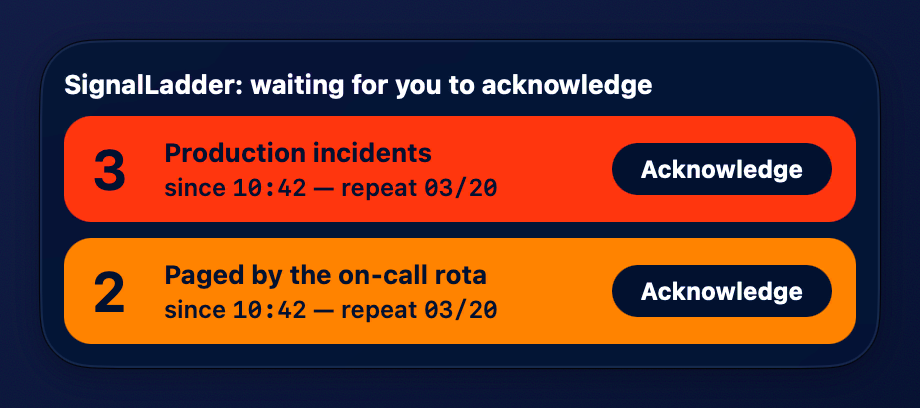
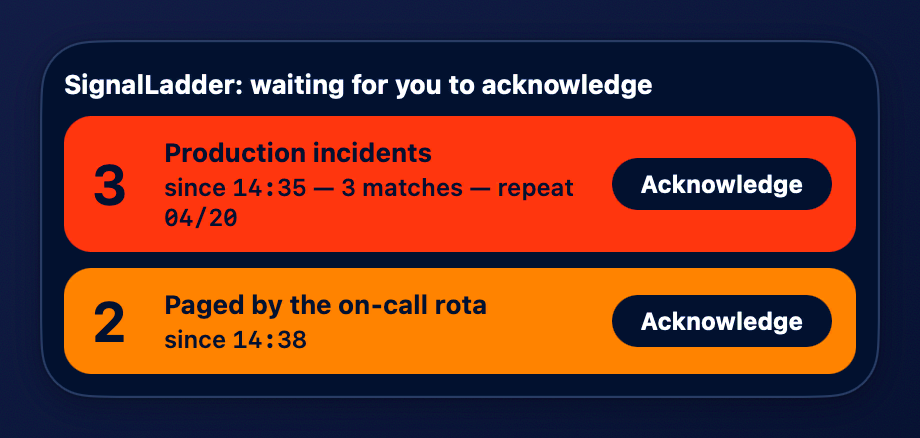
docs: the review's corrections to the pages, and pictures that agree with themselves

diff --git a/README.md b/README.md
@@ -29,7 +29,7 @@
 
 <picture>
   <source media="(prefers-color-scheme: dark)" srcset="docs/assets/hero-dark.png">
-  <img src="docs/assets/hero.png" alt="The SignalLadder rule editor showing a rule for production incidents with its conditions, the notifications it matches and an On call ladder drawn as four tier capsules; the escalation panel listing two alerts, each with its tier and an Acknowledge button; the Inspector listing recent notifications with what each one set off; and, under a menu-bar icon that reads 3 04/20, the popover with the escalating alert, Acknowledge, capture health, on-call mode, the rules in effect and its commands">
+  <img src="docs/assets/hero.png" alt="The SignalLadder rule editor showing a rule for production incidents with its conditions, the notifications it matches and an On call ladder drawn as four tier capsules; the Inspector listing recent notifications with what each one set off; and, under a menu-bar icon that reads 3 04/20, the popover with the escalating alert, Acknowledge, capture health, on-call mode, the rules in effect and its commands">
 </picture>
 
 > [!NOTE]
@@ -99,9 +99,9 @@ flowchart LR
 - While the menu is open it does not change under the pointer: a banner that arrives then shows at once on the panel and the icon, and the menu lists it the next time you open it. The menu's **Acknowledge** acts on the alerts it listed when you opened it. One that began while the menu was open keeps escalating until you acknowledge it, and so does one that a match joined while the menu was open. The hotkey acts on everything listed, including both, and a panel row's button acts on its own escalation. That is tested, and a real menu was held open in a test program. In the app itself, capture was seen running behind a held menu on 2026-10-02, but the menu holding still has not been seen.
 
 **A popover on a click, the menu on a right-click**
-- A click on the menu-bar icon opens a popover, navy whatever the Mac's appearance. While anything is escalating it begins with a block for each alert in its tier's colour, up to three, and one **Acknowledge**. Then come the menu's own lines under the headings _Capture_, _On call and snooze_ and _Rules_, three tiles, **Inspector** (⌘I), **Rules** (⌘E) and **Snooze**, and the commands: **On Call**, **Show On-Call Check…**, **Open Rules File in Text Editor…**, **Reload Rules**, **Settings…** and **Quit SignalLadder**.
+- A click on the menu-bar icon opens a popover, navy whatever the Mac's appearance. While anything is escalating it begins with a block for each alert in its tier's colour, up to three, and one **Acknowledge**. Then come the menu's own lines under the headings _Capture_, _On call and snooze_ when it has lines, _Rules_ and, when Launch at login needs saying, _Settings_, then three tiles, **Inspector** (⌘I), **Rules** (⌘E) and **Snooze**, and the commands: **On Call**, **Show On-Call Check…** while you are on call, **Open Rules File in Text Editor…**, **Reload Rules**, **Settings…** and **Quit SignalLadder**.
 - The menu is still there and is unchanged: right-click the icon, or click it holding Option or Control. What this page says the menu shows, the popover shows too, since it is made from the same lines. The list of apps to mute is in the menu only.
-- While an alert escalates the icon is a capsule in the tier's colour, amber for tier 1, orange for tier 2 and red for tiers 3 and 4, holding the tier's number and the repeats, as _3 04/20_. A warning is not one of those colours: it has a line round it.
+- While an alert escalates the icon is a capsule in the tier's colour, amber for tier 1, orange for tier 2 and red for tiers 3 and 4, holding the tier's number and the repeats, as _3 04/20_. A problem still outranks it: while one stands the icon is the slashed bell and not the capsule. A row whose Shortcut failed, or that the Mac slept through, has no tier's colour on the panel or in the popover: it has a white line round it.
 - On macOS 26 and later the popover and the panel are drawn on glass under a wash of navy. On macOS 14 and 15, and with **Reduce transparency** or **Increase contrast** switched on, they are solid navy.
 - The popover, the capsule and the panel as it is now drawn have been seen in windows drawn by their own code. They have not been opened in the app itself.
 
@@ -203,7 +203,7 @@ flowchart LR
     <td width="58%" valign="top">
       <a href="docs/assets/screenshots/panel.png"><picture>
         <source media="(prefers-color-scheme: dark)" srcset="docs/assets/screenshots/panel-dark.png">
-        <img src="docs/assets/screenshots/panel.png" alt="The escalation panel with two rows, a red one for tier 3 and an orange one for tier 2, each with the rule's name, when it began, its repeats and an Acknowledge button">
+        <img src="docs/assets/screenshots/panel.png" alt="The escalation panel with two rows, a red one for tier 3 with its matches and repeats and an orange one for tier 2, each with the rule's name, when it began and an Acknowledge button">
       </picture></a>
     </td>
     <td width="42%" valign="top">
@@ -215,7 +215,7 @@ flowchart LR
   </tr>
   <tr>
     <td><strong>The panel.</strong> One block for each alert still escalating, in its tier's colour, over every app until you acknowledge it.</td>
-    <td><strong>The popover.</strong> What a click on the icon opens: what is waiting and <strong>Acknowledge</strong> first, then the menu's own lines under headings, three tiles and the commands. Both pictures are drawn by SignalLadder's own code with made-up values, on glass, as on macOS 26 and later; they were not captured from a running copy.</td>
+    <td><strong>The popover.</strong> What a click on the icon opens: what is waiting and <strong>Acknowledge</strong> first, then the menu's own lines under headings, three tiles and the commands. Both pictures are drawn by SignalLadder's own code with made-up values and were not captured from a running copy. The popover is on glass, as on macOS 26 and later, and the panel on the solid ground, as on macOS 14 and 15.</td>
   </tr>
   <tr>
     <td colspan="2">

diff --git a/docs/architecture.md b/docs/architecture.md
@@ -865,7 +865,7 @@ The app does not choose an output device. It plays through the Mac's default out
 | `AlertPanelTests` | 60 | Builds the real `NSPanel` and reads back its level, its behaviour across Spaces, the words its rows draw, each block's colour, number and line, and its buttons, including that a row which stays keeps its button and that at most six rows are shown. Showing and hiding are checked on a panel that records being ordered in and out, so no window is ever put on screen. Two more tests check that the target imports only AppKit and Foundation and declares no dependencies. `PanelPaletteTests` holds the panel's colours to the design's values and to 4.5 to 1 between words and what they sit on, and reads three sources as text: the panel's palette and the app's, to hold each name to the same value in both, and the core's `TierTone`, to hold the panel's copy of its three lines to it. `PanelGroundTests` builds the ground and reads it back: solid navy to begin with, glass under the wash where the Mac has glass and solid where it has not, dark in a light window, what the window shows always over the glass and never in it, and the class named in one file behind both guards. On CI's macOS 15 job, which has no glass, the same tests hold the ground to staying solid |
 | `NotificationCaptureTests` | 4 | `CanaryService` with each post held open until the test lets it go, so a capture and a second self-test can be ordered around it: a self-test passes on its capture, fails on none, and one asked for while another is under way does not run |
 
-The tests use XCTest only, apart from one script. The `Test run with 0 tests` lines at the end of a run are the newer Swift Testing library reporting that there are none. The XCTest lines above them, `Executed N tests`, are the counts to read. On macOS 27.2 with Xcode 27.1 each of the six test bundles reports its own total, one after another, so the counts above are the six lines that come just after each `Test Suite 'All tests' passed`, summed (39, 20, 2552, 4, 47 and 83, which make 2745, with no failure), and counting `func test` in each target (`grep -rhoE 'func test[A-Za-z0-9_]*' Tests/<target> | wc -l`) gives the same numbers. They were taken on 2026-11-07 with `swift build --build-tests` and `swift test --skip-build`, on the code of `main` once the fixes of the November audit were in, when they were 2506, 21 and 2673. Stage 1 of the 1.2 plan added 13 tests to `NotificationCoreTests` and 13 to `AlertPanelTests` on 2026-11-25, Stage 2 ten more to `NotificationCoreTests`, Stage 3 ten more to `NotificationCoreTests` and thirteen to `AlertPanelTests`, and Stage 4 thirteen more to `NotificationCoreTests`, all the same day, counted the same two ways on macOS 27.3 with the speech tests left out of the run, since that Mac's session had no voice to give them. CI's two jobs print what they ran in the step that checks the count (see [Testing](#testing)): on `main` at `615ffd9`, three fixes earlier, both ran 2670 tests, the macOS 26 job skipping 17 for want of the voices and the macOS 15 job none.
+The tests use XCTest only, apart from one script. The `Test run with 0 tests` lines at the end of a run are the newer Swift Testing library reporting that there are none. The XCTest lines above them, `Executed N tests`, are the counts to read. On macOS 27.2 with Xcode 27.1 each of the six test bundles reports its own total, one after another, so the counts above are the six lines that come just after each `Test Suite 'All tests' passed`, summed (39, 20, 2637, 4, 60 and 83, which make 2843, with no failure), and counting `func test` in each target (`grep -rhoE 'func test[A-Za-z0-9_]*' Tests/<target> | wc -l`) gives the same numbers. They were taken on 2026-11-07 with `swift build --build-tests` and `swift test --skip-build`, on the code of `main` once the fixes of the November audit were in, when they were 2506, 21 and 2673. Stage 1 of the 1.2 plan added 13 tests to `NotificationCoreTests` and 13 to `AlertPanelTests` on 2026-11-25, Stage 2 ten more to `NotificationCoreTests`, Stage 3 ten more to `NotificationCoreTests` and thirteen to `AlertPanelTests`, Stage 4 thirteen more to `NotificationCoreTests`, and Stages 5 to 7 another 85 to `NotificationCoreTests` and 13 to `AlertPanelTests`, which brought them to 2637 and 60, all the same day, counted the same two ways on macOS 27.3 with the speech tests left out of the run, since that Mac's session had no voice to give them. CI's two jobs print what they ran in the step that checks the count (see [Testing](#testing)): on `main` at `615ffd9`, three fixes earlier, both ran 2670 tests, the macOS 26 job skipping 17 for want of the voices and the macOS 15 job none.
 
 The script is `Scripts/harness-guards-test.sh`. The live check's guards are shell functions in `Scripts/harness-guards.sh`, and the script runs them as they will run, under the macOS system bash 3.2 and with the BSD userland, which an XCTest does not. It runs 555 cases, every guard and every refusal and the marker writer on the layouts a rules file may have, against the fixtures in `Scripts/fixtures/` and a temporary folder it makes and removes. It starts no app and posts no notification, and it reads only the fixtures, the constants in `Sources/NotificationCore` and that folder, never the owner's rules file or the app's preferences. A tool that a guard calls and that fails is stood in for by a function in a subshell, so the paths after a failed copy, write or digest are cases too. It exits 0 if every case passed, 1 if one failed and 2 if it could not run. It passed on the maintainer's Mac on 2026-11-07, on macOS 27.2: 555 cases, none failed, exit 0. CI runs it as a step of its own after the tests, on both its runners, macOS 15 with Xcode 16.4 and macOS 26 with Xcode 26.6, and it passed on both from pull request #47 on, the last on `main` at `877ebc3`.
 

diff --git a/CHANGELOG.md b/CHANGELOG.md
@@ -5,7 +5,7 @@ Notable changes to SignalLadder are recorded here. The format follows [Keep a Ch
 ## [Unreleased]
 
 ### Changed
-- The pages and the pictures are brought up to the 1.2 design. The README's main picture, the rule editor's and the Inspector's are new, and there are two more, of the escalation panel and of the popover. The pages now say that a click on the icon opens the popover and a right-click the menu, where each control is in the popover, that the list of apps to mute is in the menu only, and how the rule editor is laid out. The picture of the menu is unchanged, since the menu is. Each new picture is of a window drawn by SignalLadder's own code with made-up values, on macOS 27.3 with **Reduce transparency** and **Increase contrast** off; none was captured from a running copy, and the editor's picture stands in a Shortcut named _Page me_ for one the Mac it was taken on does not have.
+- The pages and the pictures are brought up to the 1.2 design. The README's main picture, the rule editor's and the Inspector's are new, and there are two more, of the escalation panel and of the popover. The pages now say that a click on the icon opens the popover and a right-click the menu, where each control is in the popover, that the list of apps to mute is in the menu only, and how the rule editor is laid out. The picture of the menu is unchanged, since the menu is. Each new picture is of windows drawn by SignalLadder's own code with made-up values, on macOS 27.3, and the README's main picture is three of them composed on one backdrop under a menu-bar strip, with the icon's capsule drawn by the app's own code. All but the panel's were taken with **Reduce transparency** and **Increase contrast** off, and the panel's shows the solid ground; none was captured from a running copy, and the editor's picture stands in a Shortcut named _Page me_ for one the Mac it was taken on does not have.
 - On macOS 26 and later the escalation panel and the menu-bar popover are drawn on the system's glass, under a thinner wash of the design's navy, so what is behind the window shows faintly through and the ground is still navy, and dark whether the Mac's appearance is light or dark. On macOS 14 and 15 they are solid navy, as before, and so they are on any Mac with **Reduce transparency** or **Increase contrast** switched on in System Settings, Accessibility, Display. A switch of either setting is followed the next time the popover opens or the panel's rows change. Only the ground is glass: a tier's block, a fault's block on the panel, the tiles and the buttons are as opaque as they were, in the same colours. Held by tests, and seen in windows drawn by the panel's and the popover's own code over a desktop and over a white window on macOS 27.3, with the appearance dark and light and with **Reduce transparency** and **Increase contrast** off, where the quiet words measured about 5.5 to 1 against the ground; it has not been seen in the app, on macOS 26, or with either setting switched on.
 - The rule editor shows a rule's ladder as four capsules, **Tier 1** to **Tier 4**, beneath the presets. A tier the rule has is filled in its colour, amber, orange, red and red, and one it has not is an outline. Click a capsule and that tier's controls open beneath: the first alert in tier 1, which stood above the presets before; the panel's switch and delay in tier 2; the repeat's switch, alert, interval and limits in tier 3; and the last step's switch, delay and alert or Shortcut, with **Test Shortcut**, in tier 4. A tier that is off shows the switch that turns it on. **Customise…** is gone: nothing of the ladder is behind a disclosure. The presets, their sentence and every control do what they did, and what was typed into one tier is still there after looking at another. Choosing a preset that removes the tier you were looking at shows tier 1. While a rule has no alert, tiers 2 to 4 cannot be chosen, as the presets cannot. The note that the Mac's sound output is muted is now always above the capsules, whichever alert it is about, and a Shortcut that is not found puts a warning triangle on **Tier 4**, so neither is out of sight while another tier is open. The hint under On call and Wake me now ends _in Tier 4_. A screen reader is told each capsule as _Tier 2, on_ or _Tier 4, off_. Nothing changes in the rules file. Held by tests, and seen as images of the editor drawn offscreen from its own code, in light and dark, on macOS 27.3; it has not been used in the app, so clicking between tiers, typing in them and the keyboard's path through them are unseen.
 - In the rule editor, the section that tries a rule on the notifications SignalLadder is holding is now headed **Matching notifications** and sits directly beneath the conditions, above the alert and the ladder, so a change to a condition shows beside it. It was headed _Tried on recent notifications_ and was the last section of the pane. What it lists and the sentence inside it are unchanged. Held by tests that read the view, and seen as an image of the editor drawn offscreen on macOS 27.3; it has not been seen in the app.

diff --git a/docs/troubleshooting.md b/docs/troubleshooting.md
@@ -27,7 +27,7 @@ The Inspector is held in memory. It is empty after a relaunch, and the 51st noti
 
 That picture is the menu that a right-click opens. It shows on-call mode on, so under **On Call** are the lines the menu adds while you are on call. Off call, **On Call** is unticked and has none of those lines under it. The picture is drawn from SignalLadder's own menu text with made-up values; it was not captured from a running copy. It was drawn before the **Snooze** item was built, so it does not show it: in the app, **Snooze** comes after the last of the On Call lines, above the capture count. It shows no setup line either, which comes beneath the health line and its cause while setup is not finished.
 
-![The Inspector listing captured notifications, some matched and some not](assets/screenshots/inspector.png)
+![The Inspector listing captured notifications, each with the rule that matched it and what SignalLadder did: one played a sound and spoke, the others were silent by rule](assets/screenshots/inspector.png)
 
 Then find your symptom:
 
@@ -345,7 +345,7 @@ A rule with an escalation starts its ladder when it matches, straight after its 
 7. **A repeat never comes.** The first repeat comes one `intervalSeconds` after the match, not at once. A `maxDurationSeconds` shorter than that interval allows no repeat at all, and the escalation is listed as no longer repeating from the start.
 8. **You edited the file and did not reload it.** Choose **Reload Rules** (⌘R).
 
-The rule editor shows the ladder in the section headed **Then**. Under **If I don't acknowledge** come the presets and a sentence that says in words what it will do, then four capsules, **Tier 1** to **Tier 4**, with the selected tier's settings beneath. Tier 1 is the first alert. Read that sentence first, since it describes the ladder as the editor holds it. The controls were drawn and driven in a test program, and the editor has been seen only in a window drawn by the app's own view code, with made-up values. It has not been opened in SignalLadder itself, and the live checks are still to do, so if the sentence does not match what you set, please report it. A ladder's problems are listed under the rule, as any rule's are. A ladder it cannot read at all, such as a misspelt key, makes the editor open read-only: see [The menu shows a warning about rules](#the-menu-shows-a-warning-about-rules).
+The rule editor shows the ladder in the section headed **Then**. Under **If I don't acknowledge** come the presets and a sentence that says in words what it will do, then four capsules, **Tier 1** to **Tier 4**, with the selected tier's settings beneath. Tier 1 is the first alert. Read that sentence first, since it describes the ladder as the editor holds it. What the controls decide and say is held by tests, and the editor has been seen only in a window drawn by the app's own view code, with made-up values; clicking between tiers, typing in them and the keyboard's path through them have not been tried. It has not been opened in SignalLadder itself, and the live checks are still to do, so if the sentence does not match what you set, please report it. A ladder's problems are listed under the rule, as any rule's are. A ladder it cannot read at all, such as a misspelt key, makes the editor open read-only: see [The menu shows a warning about rules](#the-menu-shows-a-warning-about-rules).
 
 ### A burst of matches played one alert, or paged late
 

diff --git a/docs/dev/plans/2026-11-25-m7-night-watch.md b/docs/dev/plans/2026-11-25-m7-night-watch.md
@@ -186,7 +186,7 @@ _As built:_ `PanelGroundView` in the panel's target is the ground of both window
 4. Raise the test count in `docs/architecture.md`.
 5. Run the live check in all four modes on a signed build; swap the owner's running copy on their go-ahead; soak; tag 1.2.
 
-_As built (items 1, 2 and 4):_ every statement the redesign made false was listed page by page, each checked against the code, and corrected: where a click on the icon is now the popover and not the menu, where each control is, the rule editor's order and the mute list being in the menu only. There is still no screenshot tooling in the repository. The pictures were made from scratch programs that put the app's own views in real windows with made-up rules and notifications and captured them: the rule editor and the Inspector as windows, the popover and the panel on glass over a plain backdrop, and the hero composed from those with the status capsule drawn by the app's own code. The owner's Mac has Reduce transparency and Increase contrast on, so both were switched off for the captures, with their leave, and switched back. The editor's picture stands a Shortcut named _Page me_ in for the Mac's own list, so that tier 4 shows no warning. The picture of the menu is kept, since the menu did not change, and so is the social preview, which shows no part of the interface. Two pictures are added, of the panel and of the popover.
+_As built (items 1, 2 and 4):_ every statement the redesign made false was listed page by page, each checked against the code, and corrected: where a click on the icon is now the popover and not the menu, where each control is, the rule editor's order and the mute list being in the menu only. There is still no screenshot tooling in the repository. The pictures were made from scratch programs that put the app's own views in real windows with made-up rules and notifications and captured them: the rule editor and the Inspector as windows, the popover on glass and the panel on the solid ground, each over a plain backdrop, and the hero composed from the editor, the Inspector and the popover with the status capsule drawn by the app's own code. A review found the first hero's panel, popover and icon disagreeing about what was escalating, so the panel was left out of it, and the panel's own picture was taken again with rows that can happen. The owner's Mac has Reduce transparency and Increase contrast on, so both were switched off for the captures, with their leave, and switched back; the panel's picture was taken afterwards, which is why it is on the solid ground. The editor's picture stands a Shortcut named _Page me_ in for the Mac's own list, so that tier 4 shows no warning. The picture of the menu is kept, since the menu did not change, and so is the social preview, which shows no part of the interface. Two pictures are added, of the panel and of the popover.
 
 ### Owner decisions
 

diff --git a/docs/getting-started.md b/docs/getting-started.md
@@ -254,7 +254,7 @@ On 2026-10-13, on macOS 27.2, the project's live check script ([`Scripts/verify-
 
 A rule can only match text SignalLadder has read, and apps do not all put things in the same place. So look before you write anything. Click the icon and choose the **Inspector** tile (⌘I). The menu has **Show Inspector…** (⌘I) as well. The window is titled SignalLadder Inspector.
 
-![The Inspector listing captured notifications, some matched by a rule and some not](assets/screenshots/inspector.png)
+![The Inspector listing captured notifications, each with the rule that matched it and what SignalLadder did: one played a sound and spoke, the others were silent by rule](assets/screenshots/inspector.png)
 
 When nothing has arrived yet, it says so. _Nothing captured yet. Capture is verified working, so this is simply quiet._ means capture is fine and nothing has come in. If it says SignalLadder cannot confirm it is capturing, read the health line and advice under it first.
 
